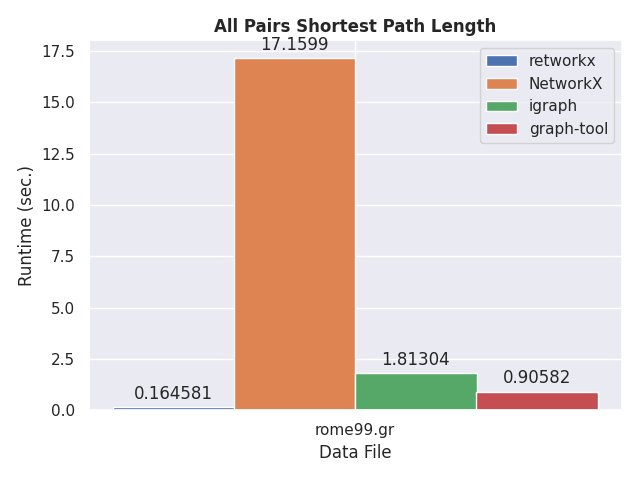
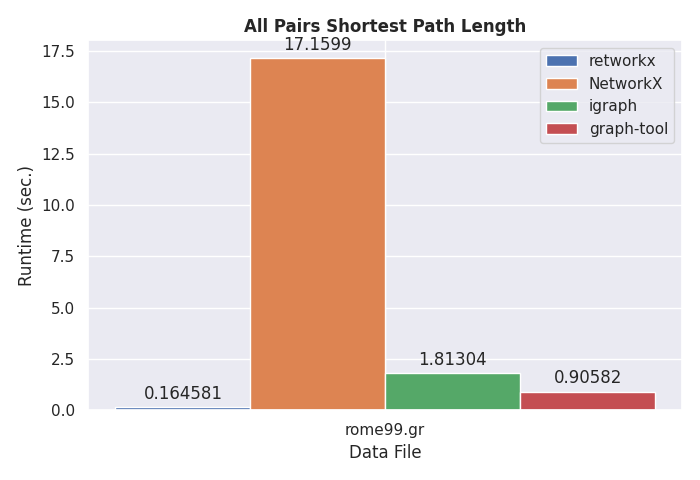
Make shortest path plots more squared again

diff --git a/graph_results.py b/graph_results.py
@@ -143,7 +143,7 @@ def single_source_graph():
     width = 0.175
     if HAS_SNS:
         sns.set_theme()
-    fig, ax = plt.subplots(figsize=(9.6, 4.8))
+    fig, ax = plt.subplots(figsize=(7, 4.8))
     retworkx_rects = ax.bar(x - 3 * width / 2, retworkx_times, width, label="retworkx")
     networkx_rects = ax.bar(x - width / 2, networkx_times, width, label="NetworkX")
     igraph_rects = ax.bar(x + width / 2, igraph_times, width, label="igraph")
@@ -156,7 +156,8 @@ def single_source_graph():
     ax.set_xlabel("Data File")
     ax.set_xticks(x)
     ax.set_xticklabels(single_source_shortest_files)
-    ax.legend(loc="upper left", bbox_to_anchor=(0.85,0.97))
+    ax.set_xlim(right=np.amax(x)*1.45)
+    ax.legend()
 
     ax.bar_label(retworkx_rects, padding=3)
     ax.bar_label(networkx_rects, padding=3)
@@ -273,7 +274,7 @@ def all_pair_graph():
     width = 0.2333
     if HAS_SNS:
         sns.set_theme()
-    fig, ax = plt.subplots()
+    fig, ax = plt.subplots(figsize=(7, 4.8))
     retworkx_rects = ax.bar(x - 3 * width / 2, retworkx_times, width, label="retworkx")
     networkx_rects = ax.bar(x - width / 2, networkx_times, width, label="NetworkX")
     igraph_rects = ax.bar(x + width / 2, igraph_times, width, label="igraph")

diff --git a/results/single_source_shortest_path.tex b/results/single_source_shortest_path.tex
@@ -11,22 +11,14 @@
 axis background/.style={fill=color0},
 axis line style={white},
 legend cell align={left},
-legend style={
-  fill opacity=0.8,
-  draw opacity=1,
-  text opacity=1,
-  at={(0.85,0.97)},
-  anchor=north west,
-  draw=white!80!black,
-  fill=color0
-},
+legend style={fill opacity=0.8, draw opacity=1, text opacity=1, draw=white!80!black, fill=color0},
 tick align=outside,
 title={Single Source Shortest path between 2 nodes},
 x grid style={white},
 xlabel={Data File},
 xmajorgrids,
 xmajorticks=false,
-xmin=-0.485, xmax=2.485,
+xmin=-0.485, xmax=2.9,
 xtick style={color=white!15!black},
 xtick={0,1,2},
 xticklabels={USA-road-1.USA,USA-road-d.USA,USA-road-t.USA},
